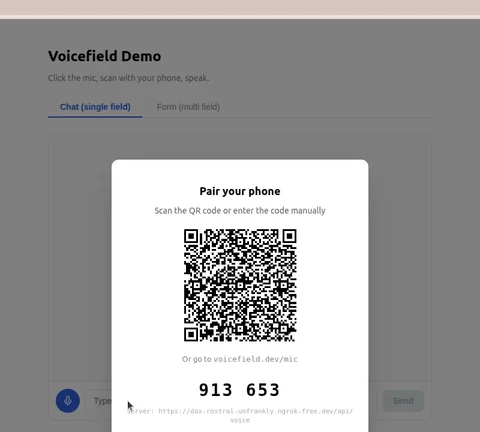
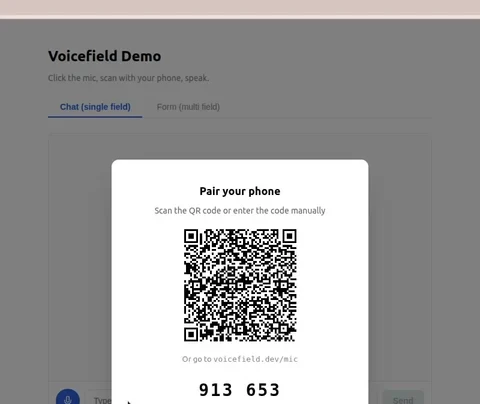
fix: remove ngrok URL from desktop demo screenshot

diff --git a/apps/web/src/landing.css b/apps/web/src/landing.css
@@ -398,7 +398,7 @@ html.dark {
 
 .desktop-screen {
   position: relative;
-  aspect-ratio: 480 / 432;
+  aspect-ratio: 480 / 404;
   overflow: hidden;
 }
 
